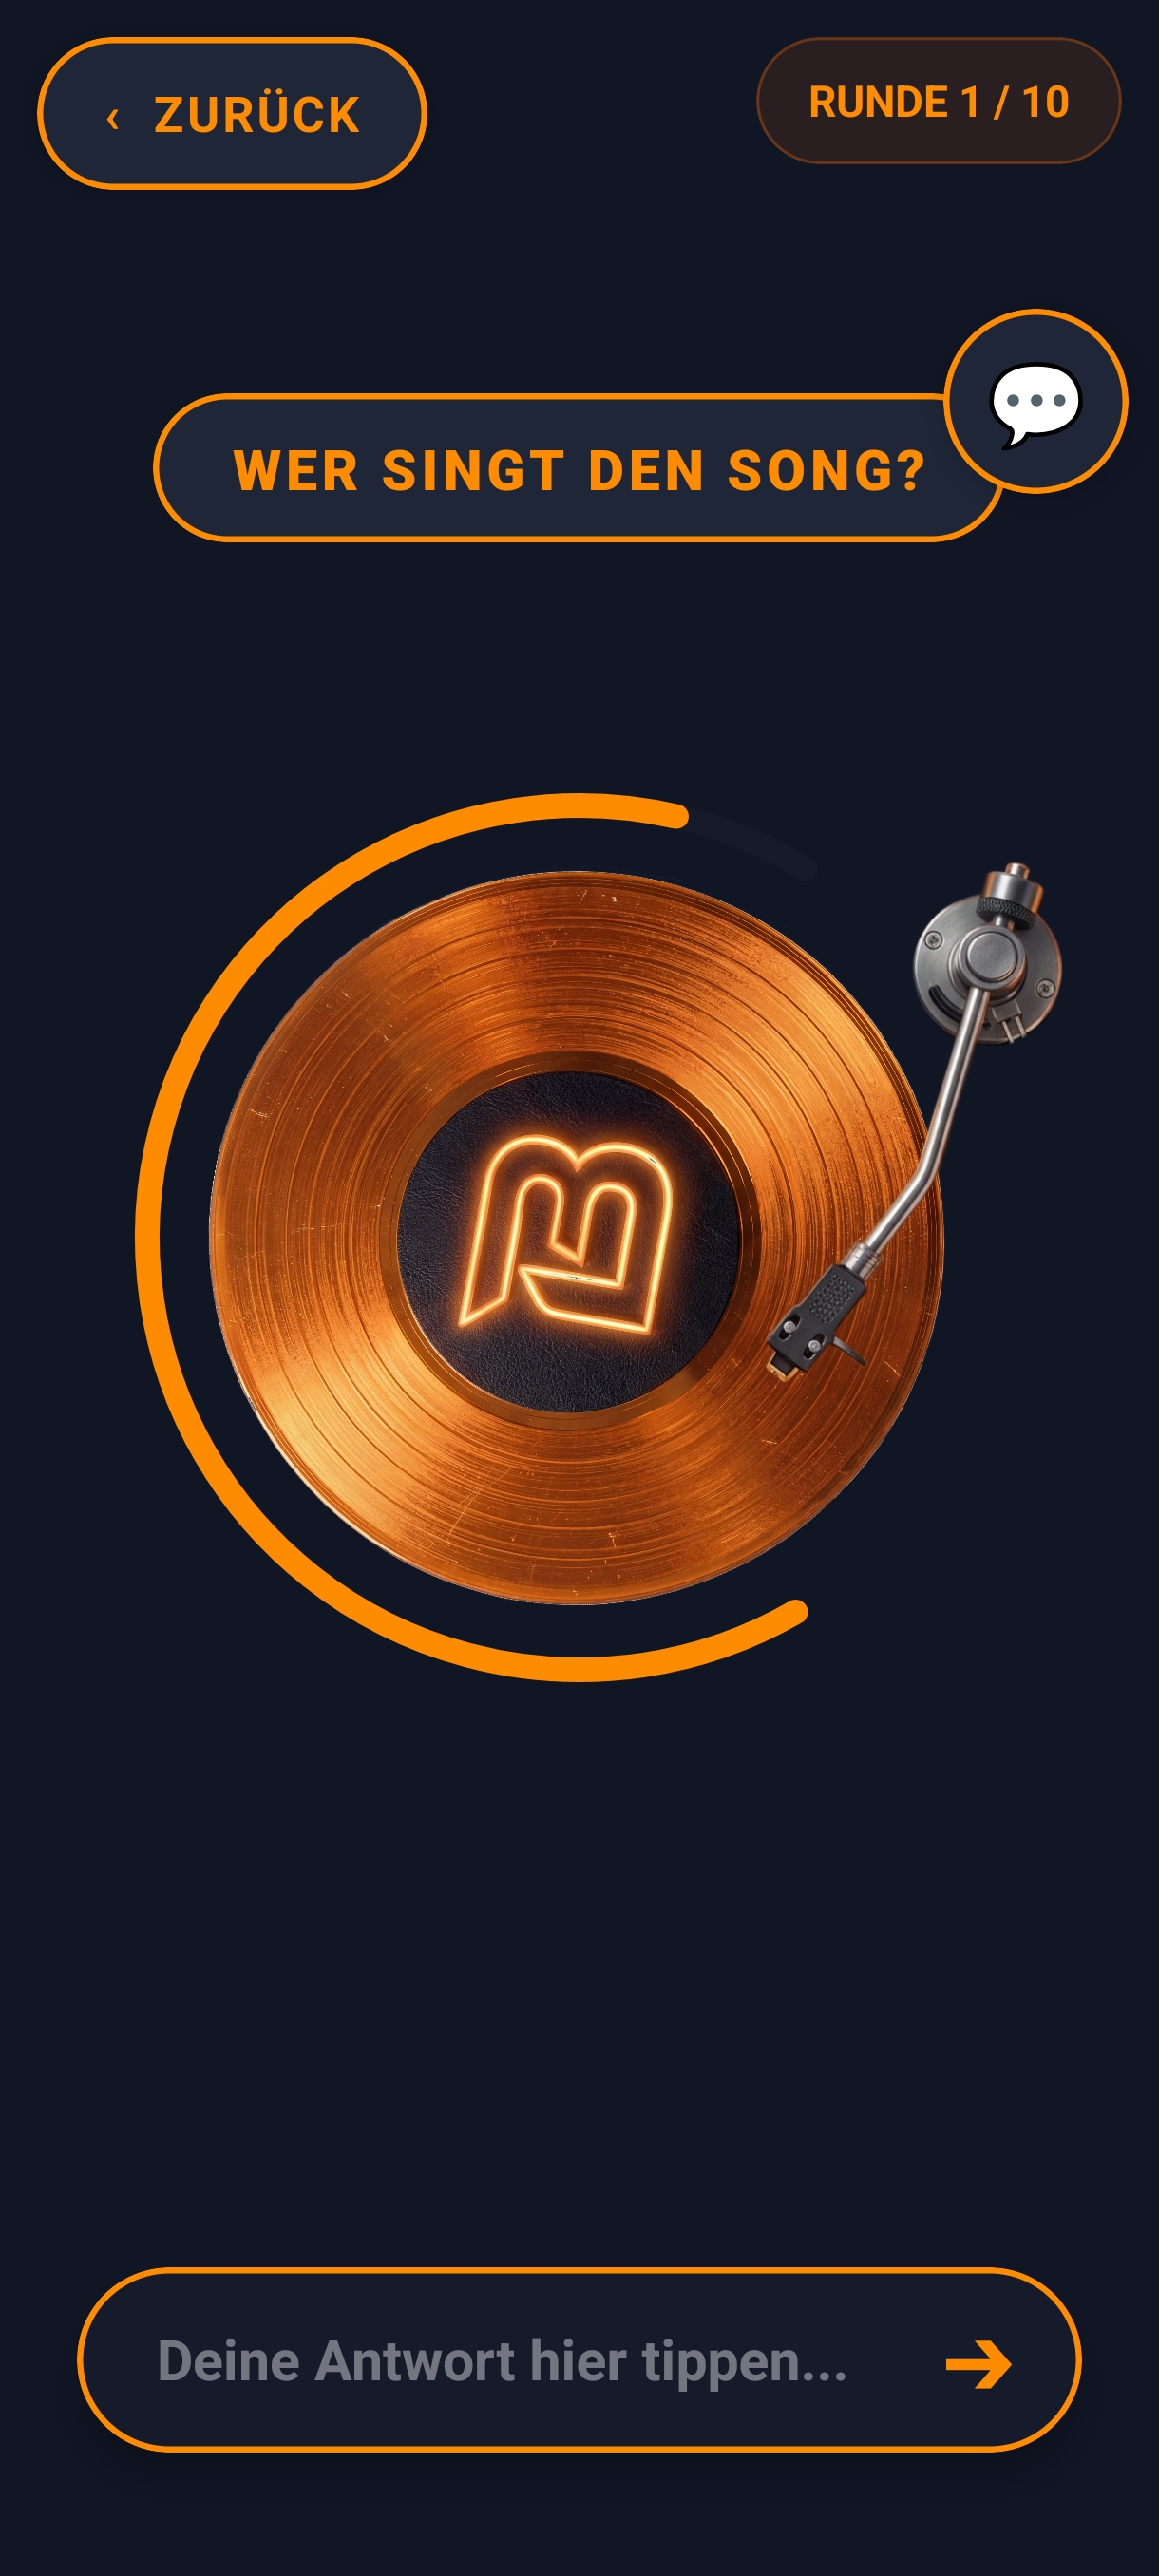
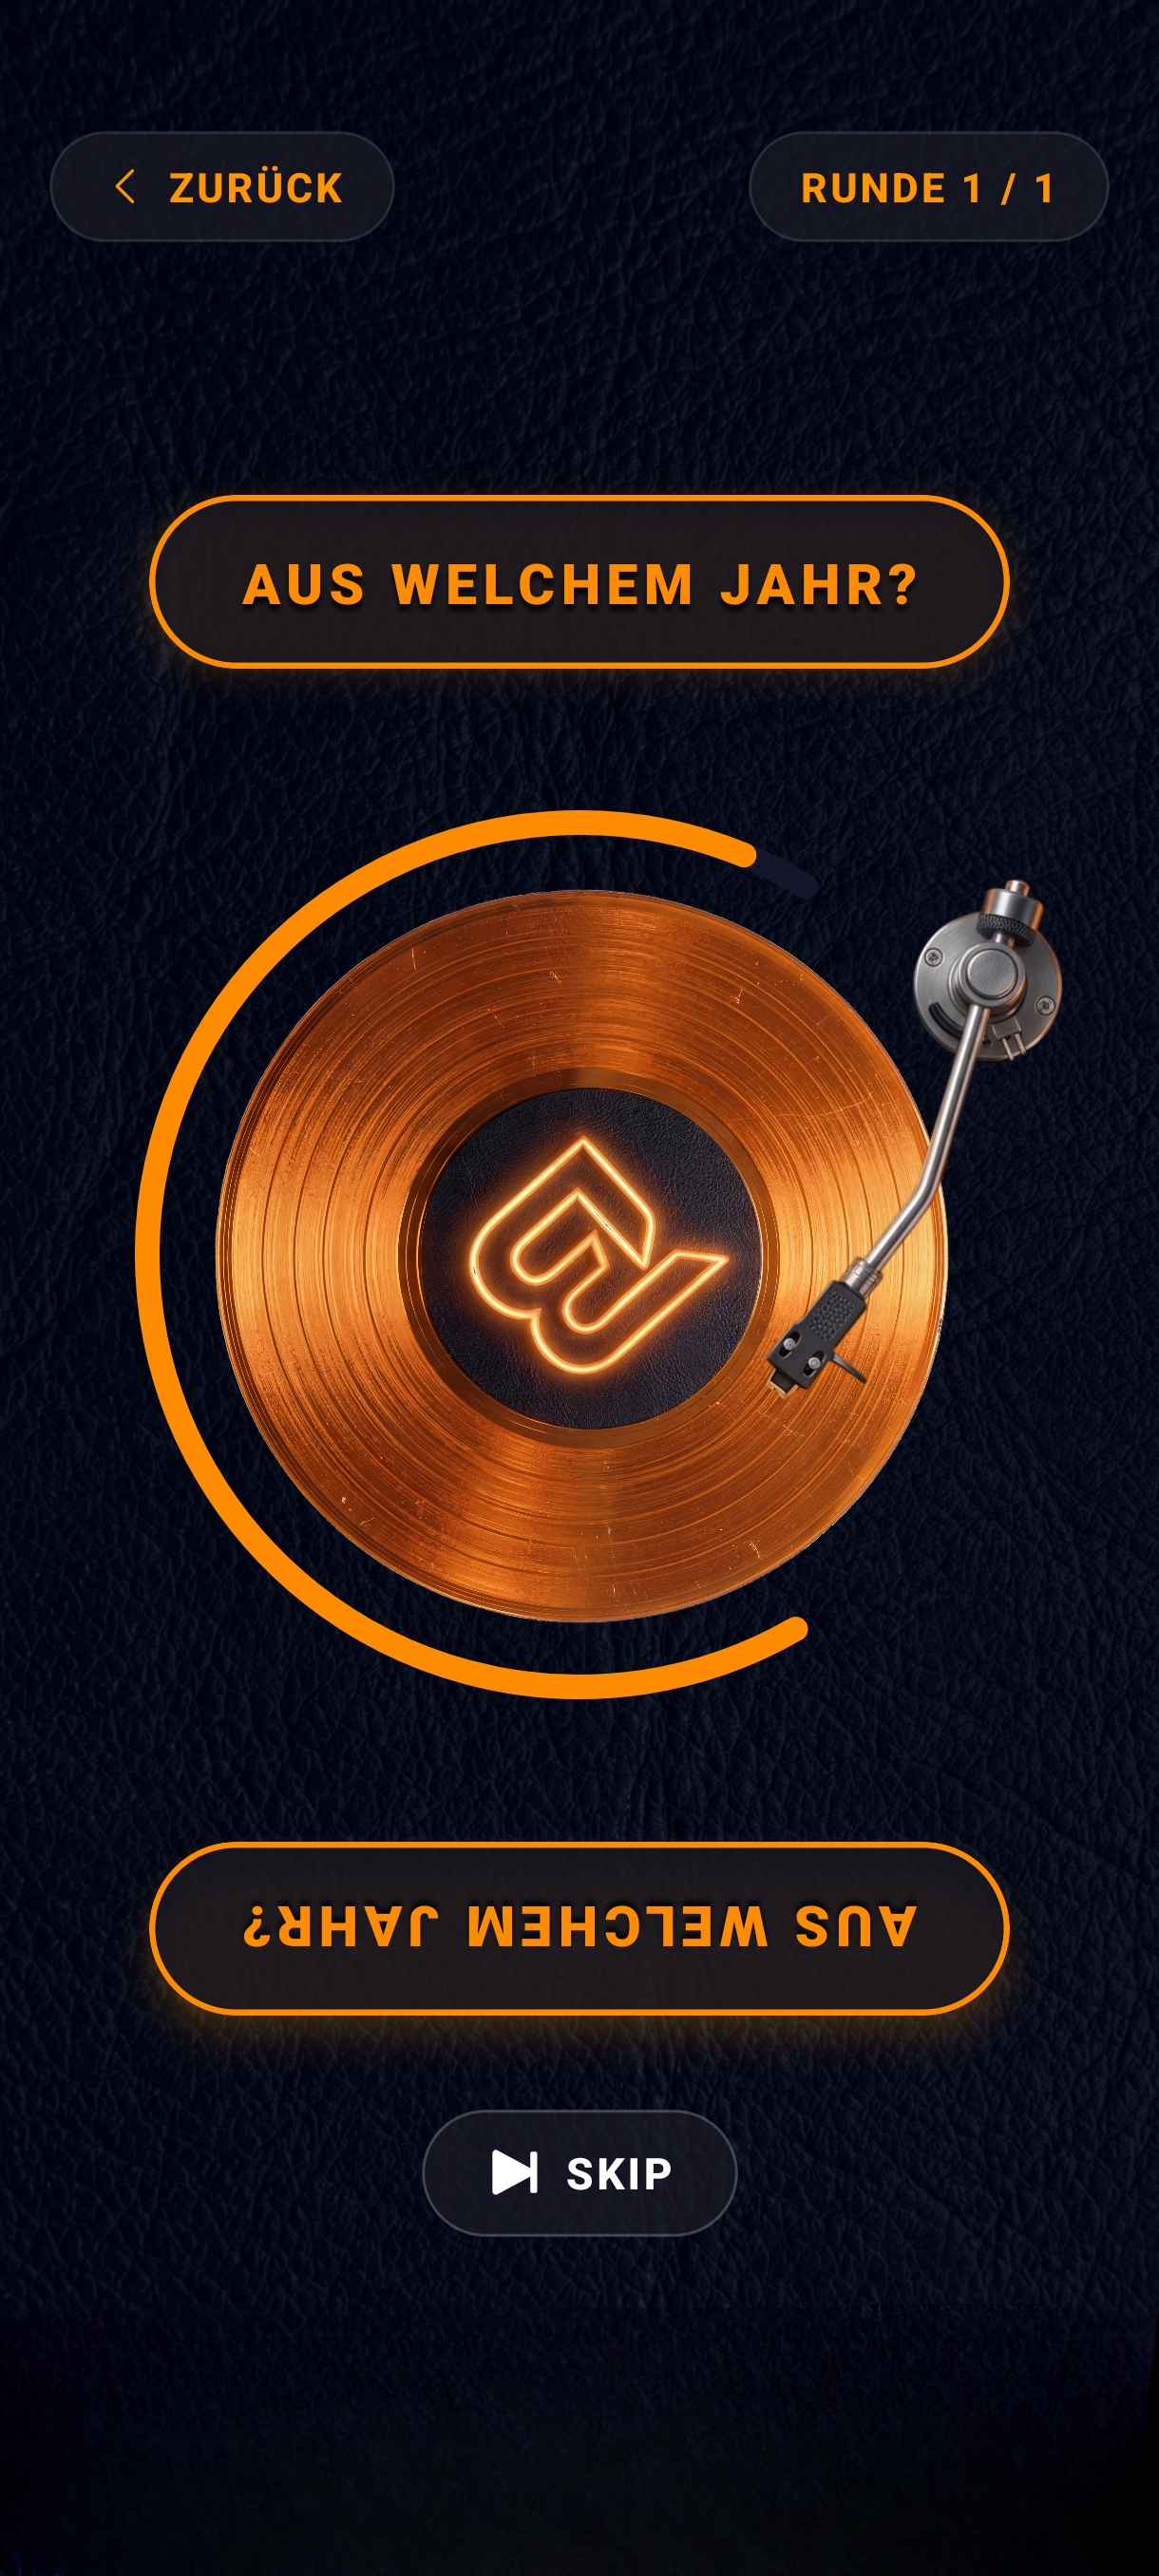
feat: Add Play/App Store badges and Support/Contact section with custom email

diff --git a/index.css b/index.css
@@ -499,6 +499,143 @@ h1, h2, h3 {
   50% { transform: scale(1.1) rotate(15deg); }
 }
 
+/* Store Buttons & Badges */
+.store-buttons {
+  display: flex;
+  align-items: center;
+  justify-content: center;
+  gap: 1.2rem;
+  flex-wrap: wrap;
+}
+
+.store-badge-link {
+  display: inline-block;
+  transition: transform 0.2s ease, filter 0.2s ease;
+  height: 44px;
+}
+
+.store-badge-link:hover {
+  transform: translateY(-2px);
+  filter: brightness(1.1);
+}
+
+.store-badge-img {
+  height: 44px;
+  width: auto;
+  display: block;
+  object-fit: contain;
+}
+
+/* App Store Badge - Coming Soon */
+.store-badge-coming-soon {
+  position: relative;
+  display: inline-block;
+  height: 44px;
+  cursor: default;
+}
+
+.store-badge-coming-soon .store-badge-img {
+  opacity: 0.4;
+  filter: grayscale(100%);
+  transition: opacity 0.3s ease;
+}
+
+.store-badge-coming-soon:hover .store-badge-img {
+  opacity: 0.6;
+}
+
+.coming-soon-badge {
+  position: absolute;
+  top: -8px;
+  right: -8px;
+  background: linear-gradient(135deg, #FF3B30, #FF9500);
+  color: white;
+  font-size: 0.6rem;
+  font-weight: 800;
+  padding: 0.2rem 0.5rem;
+  border-radius: 20px;
+  text-transform: uppercase;
+  letter-spacing: 0.5px;
+  border: 1px solid rgba(255, 255, 255, 0.2);
+  box-shadow: 0 4px 10px rgba(255, 59, 48, 0.3);
+  pointer-events: none;
+  white-space: nowrap;
+}
+
+/* Contact Section */
+.contact {
+  padding-bottom: 6rem;
+  display: flex;
+  justify-content: center;
+}
+
+.contact-card {
+  width: 100%;
+  max-width: 650px;
+  background: var(--glass-bg);
+  border: 1px solid var(--glass-border);
+  box-shadow: var(--glass-shadow);
+  border-radius: 24px;
+  padding: 3rem 2rem;
+  text-align: center;
+  display: flex;
+  flex-direction: column;
+  align-items: center;
+  gap: 1.5rem;
+  transition: transform 0.3s ease, border-color 0.3s ease;
+  backdrop-filter: blur(12px);
+  -webkit-backdrop-filter: blur(12px);
+}
+
+.contact-card:hover {
+  transform: translateY(-4px);
+  border-color: rgba(255, 140, 0, 0.3);
+}
+
+.contact-icon {
+  background: rgba(255, 140, 0, 0.1);
+  border: 1px solid rgba(255, 140, 0, 0.2);
+  width: 70px;
+  height: 70px;
+  border-radius: 50%;
+  display: flex;
+  align-items: center;
+  justify-content: center;
+  margin-bottom: 0.5rem;
+}
+
+.contact-text {
+  font-size: 1.1rem;
+  color: var(--text-primary);
+  max-width: 480px;
+  line-height: 1.6;
+}
+
+.contact-text a {
+  color: var(--accent-primary);
+  text-decoration: none;
+  font-weight: 700;
+  transition: opacity 0.2s ease;
+  border-bottom: 2px solid rgba(255, 140, 0, 0.3);
+  padding-bottom: 2px;
+}
+
+.contact-text a:hover {
+  opacity: 0.8;
+  border-bottom-color: var(--accent-primary);
+}
+
+.contact-btn {
+  text-decoration: none;
+  display: inline-flex;
+  align-items: center;
+  justify-content: center;
+  gap: 0.8rem;
+  padding: 1rem 2.5rem;
+  font-size: 1rem;
+  min-width: 220px;
+}
+
 /* MEDIA QUERIES */
 @media (max-width: 992px) {
   .hero h1 { font-size: 3rem; }
@@ -521,4 +658,8 @@ h1, h2, h3 {
   .footer-links a { flex: 1; text-align: center; font-size: 0.8rem; }
   .feature-content h2 { font-size: 2rem; }
   .bg-overlay { opacity: 0.2; }
+  
+  .contact-card { padding: 2rem 1.2rem; gap: 1.2rem; }
+  .contact-text { font-size: 1rem; }
+  .contact-btn { width: 100%; }
 }

diff --git a/index.html b/index.html
@@ -18,9 +18,13 @@
         BEAT<span class="gradient-text">MASTER</span>
       </div>
       <div class="store-buttons">
-        <a href="https://play.google.com/store/apps/details?id=com.pointe.beatmaster" class="btn-store" target="_blank">
-          Google Play
+        <a href="https://play.google.com/store/apps/details?id=com.pointe.beatmaster" target="_blank" class="store-badge-link">
+          <img src="assets/images/Google-Play-Badge.png" alt="Get it on Google Play" class="store-badge-img">
         </a>
+        <div class="store-badge-coming-soon">
+          <img src="assets/images/App-Store-Badge.png" alt="Download on the App Store" class="store-badge-img">
+          <span class="coming-soon-badge">Coming Soon</span>
+        </div>
       </div>
     </div>
   </nav>
@@ -157,6 +161,25 @@
         </div>
       </div>
     </section>
+
+    <section class="contact container">
+      <div class="contact-card">
+        <div class="contact-icon">
+          <svg xmlns="http://www.w3.org/2000/svg" width="32" height="32" viewBox="0 0 24 24" fill="none" stroke="url(#email-grad)" stroke-width="2" stroke-linecap="round" stroke-linejoin="round">
+            <defs>
+              <linearGradient id="email-grad" x1="0%" y1="0%" x2="100%" y2="100%">
+                <stop offset="0%" stop-color="var(--gradient-start)" />
+                <stop offset="100%" stop-color="var(--gradient-end)" />
+              </linearGradient>
+            </defs>
+            <path d="M4 4h16c1.1 0 2 .9 2 2v12c0 1.1-.9 2-2 2H4c-1.1 0-2-.9-2-2V6c0-1.1.9-2 2-2z"></path>
+            <polyline points="22,6 12,13 2,6"></polyline>
+          </svg>
+        </div>
+        <p class="contact-text">Hast du Fragen oder Probleme mit Beatmaster? Kontaktiere mich gerne per E-Mail: <a href="mailto:[email redacted]">Support kontaktieren</a></p>
+        <a href="mailto:[email redacted]" class="btn-primary contact-btn">E-Mail schreiben</a>
+      </div>
+    </section>
   </main>
 
   <footer class="footer">
@@ -167,7 +190,7 @@
         </div>
         <div class="footer-links">
           <a href="privacy.html">Datenschutz</a>
-          <a href="mailto:[email redacted]">Kontakt</a>
+          <a href="mailto:[email redacted]">Kontakt</a>
         </div>
       </div>
       <p class="copyright">&copy; 2026 Beatmaster. Alle Rechte vorbehalten.</p>

diff --git a/privacy.html b/privacy.html
@@ -148,7 +148,7 @@
     <section>
         <h2>5. Contact Us</h2>
         <p>If you have any questions about this Privacy Policy, please contact us:</p>
-        <p>Email: <a href="mailto:[email redacted]">[email redacted]</a></p>
+        <p>Email: <a href="mailto:[email redacted]">[email redacted]</a></p>
     </section>
 
     <footer>